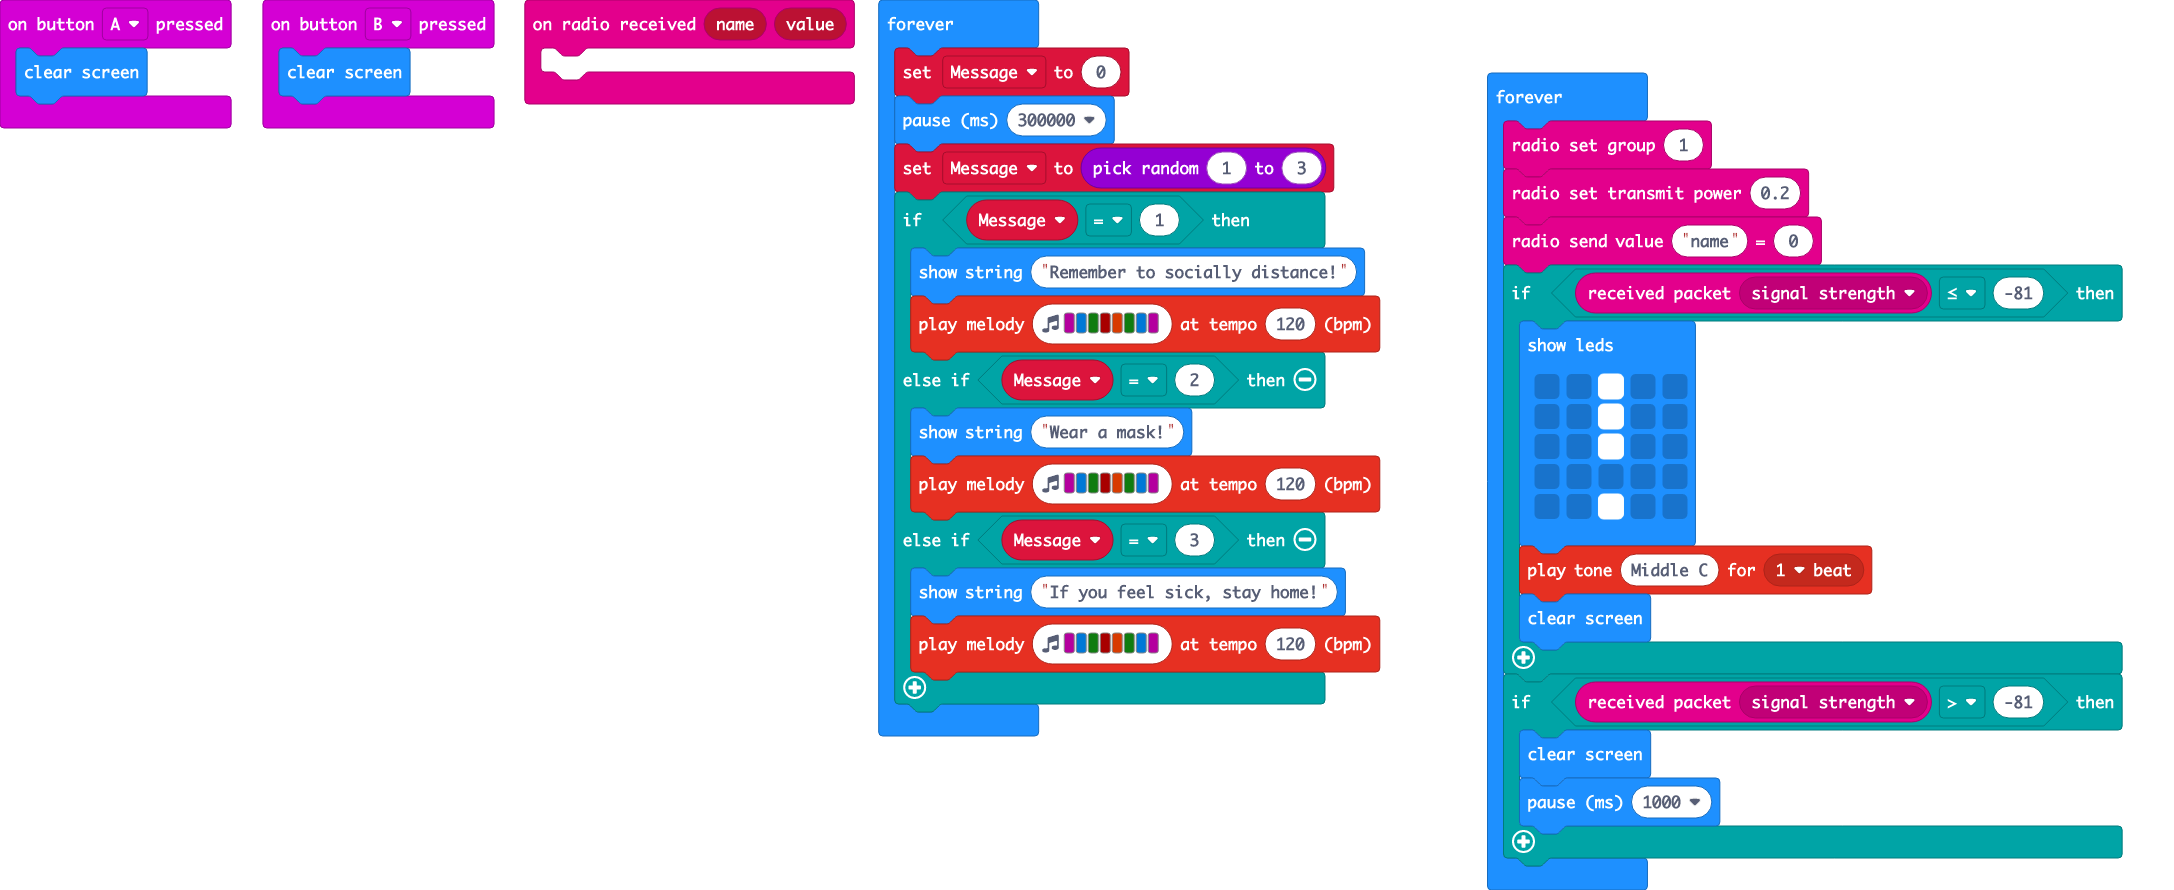
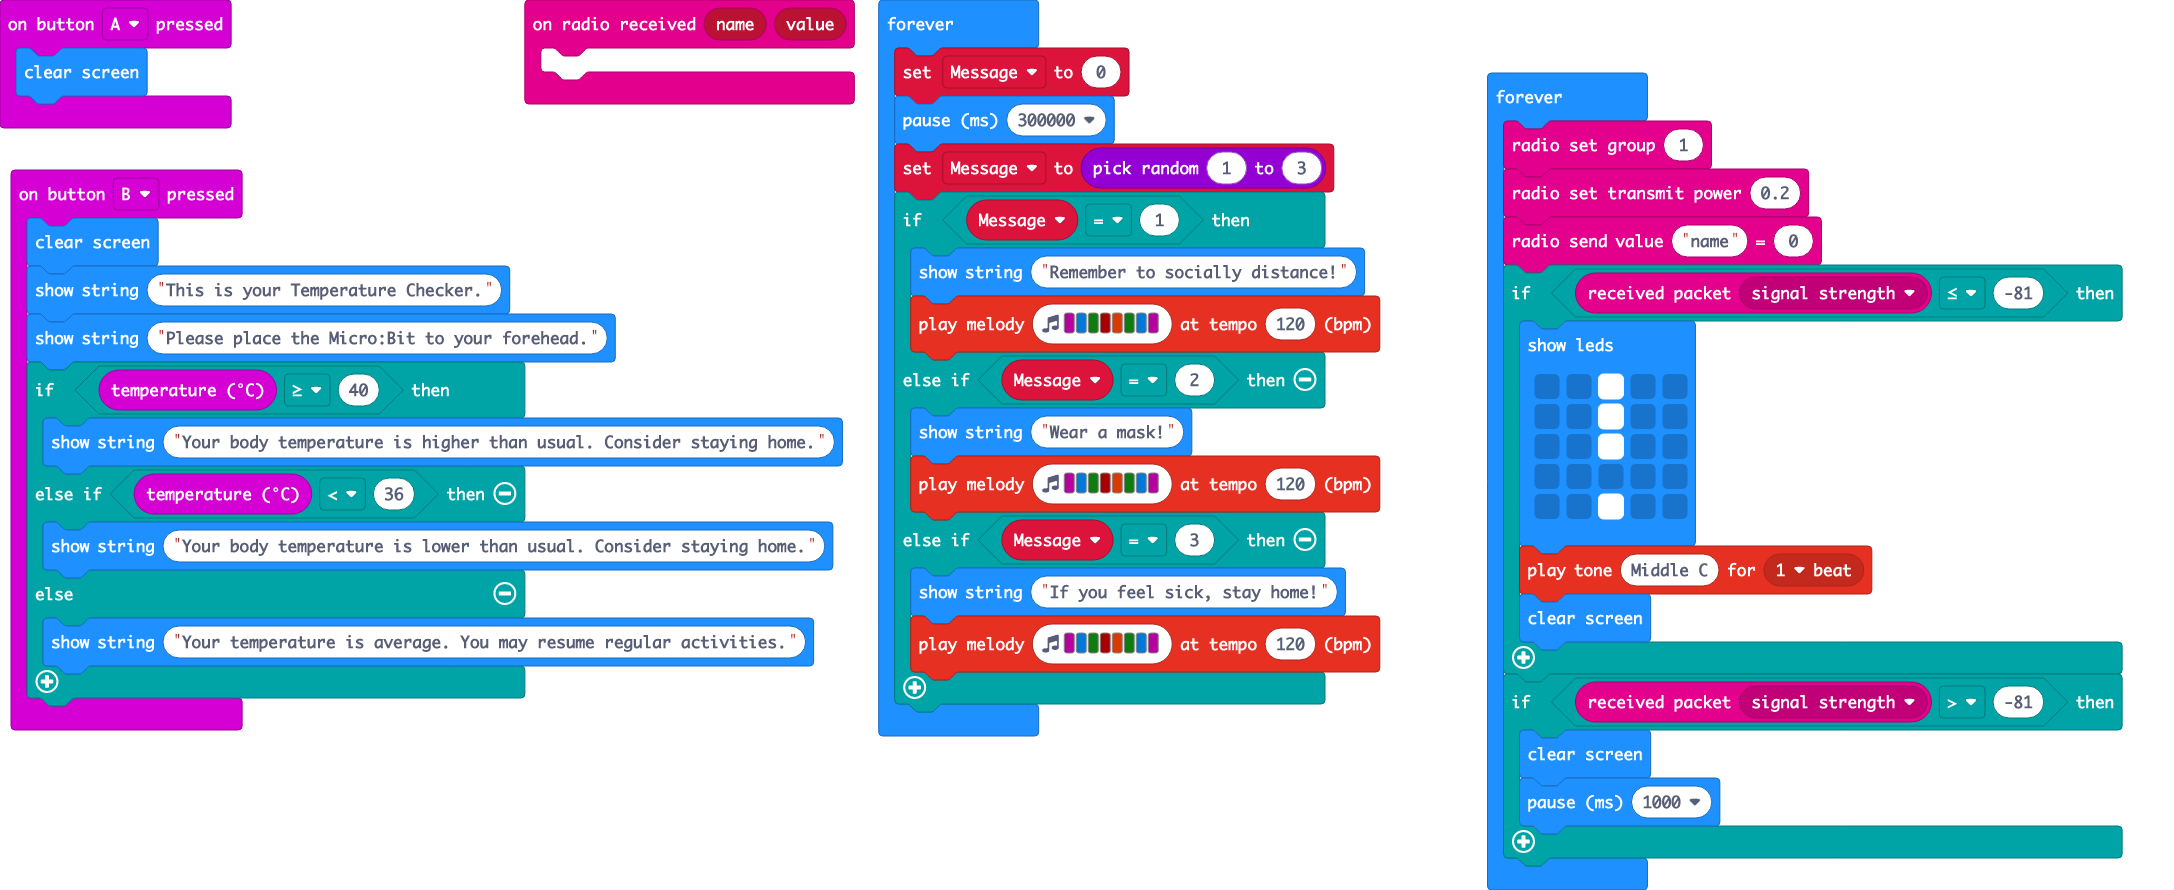
Added a temperature sensor, hope this doesn't break anything.

Changed region(s): [[0.0, 0.182, 0.4006, 0.8191], [0.1233, 0.0, 0.2466, 0.1517]]

diff --git a/main.ts b/main.ts
@@ -4,6 +4,15 @@ input.onButtonPressed(Button.A, function () {
 })
 input.onButtonPressed(Button.B, function () {
     basic.clearScreen()
+    basic.showString("This is your Temperature Checker.")
+    basic.showString("Please place the Micro:Bit to your forehead.")
+    if (input.temperature() >= 40) {
+        basic.showString("Your body temperature is higher than usual. Consider staying home.")
+    } else if (input.temperature() < 36) {
+        basic.showString("Your body temperature is lower than usual. Consider staying home.")
+    } else {
+        basic.showString("Your temperature is average. You may resume regular activities.")
+    }
 })
 radio.onReceivedValue(function (name, value) {
 	
